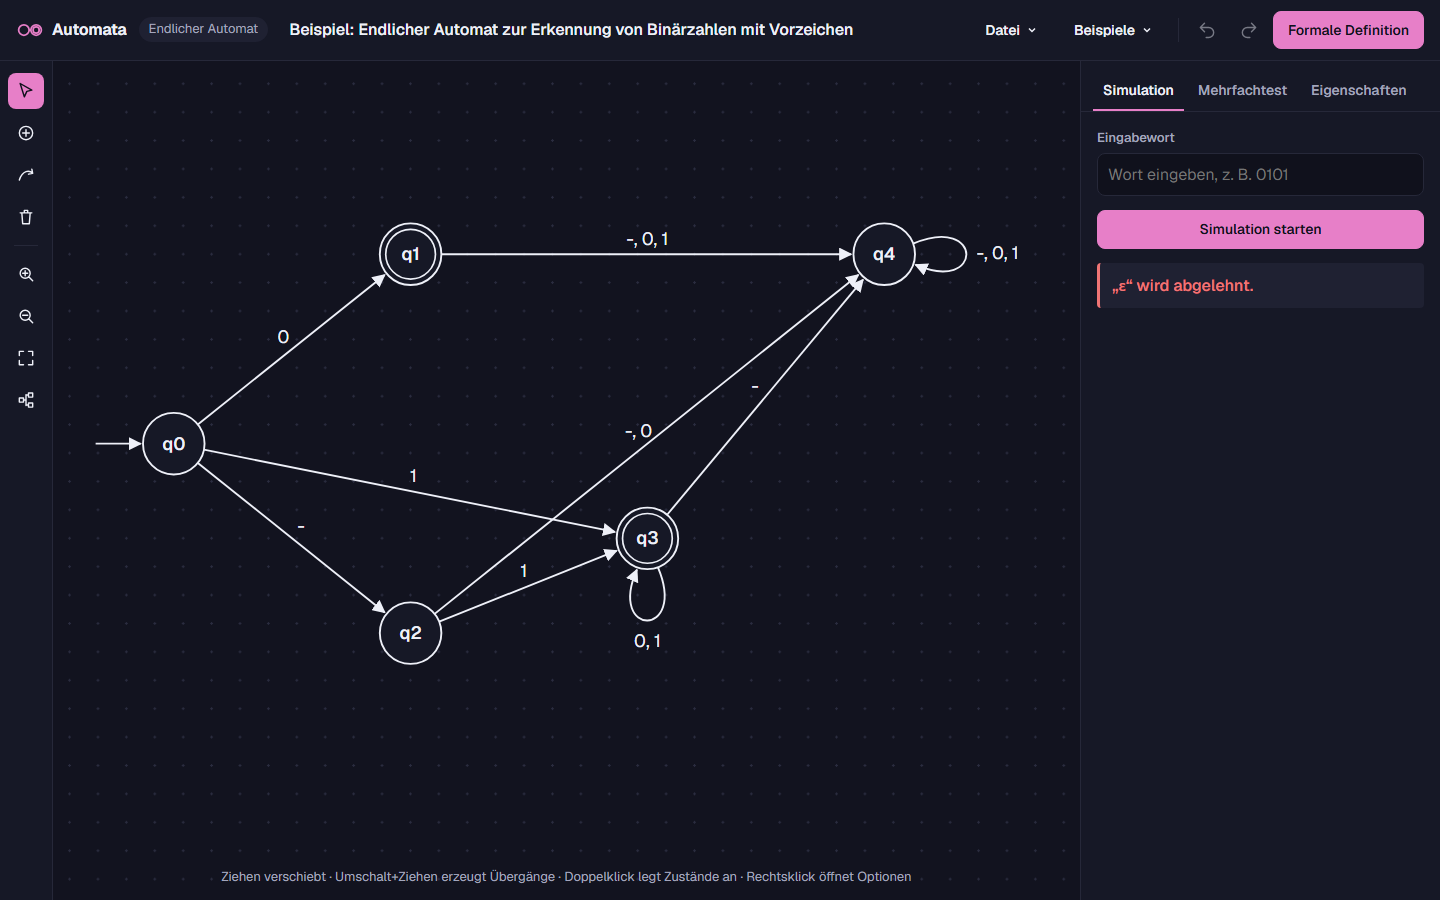
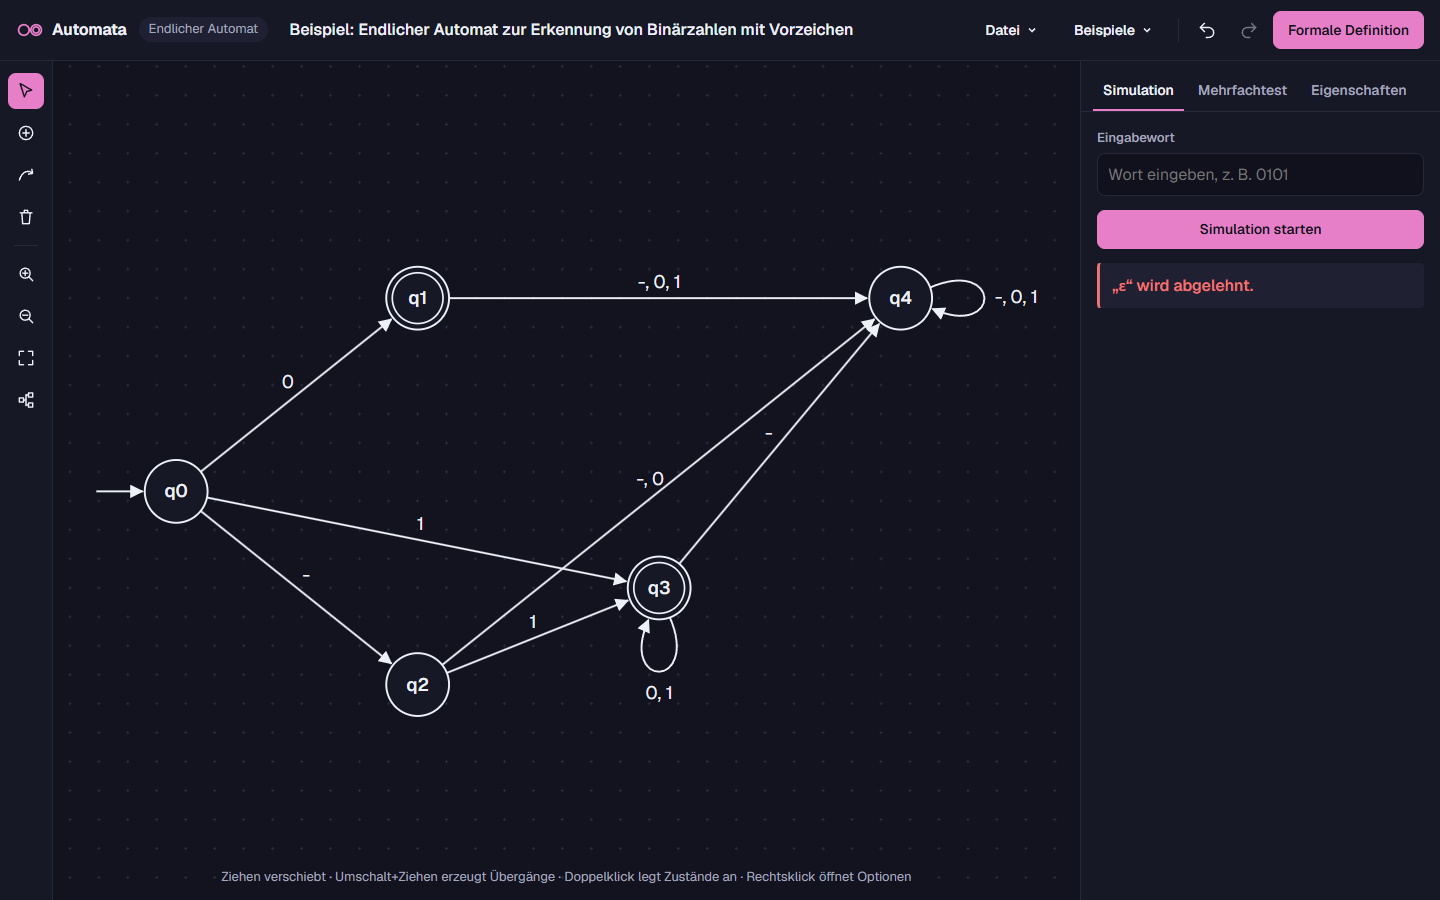
Update README.md

diff --git a/README.md b/README.md
@@ -3,31 +3,17 @@
 A modern, browser-based workbench for formal languages and automata theory, inspired by [JFLAP](https://www.jflap.org).
 Built with [Astro](https://astro.build), [Svelte](https://svelte.dev) and TypeScript. The user interface is in German.
 
-![Start page](.github/images/home.png)
+![Finite automaton editor](.github/images/finite-automaton.png)
 
 ## Features
 
-**Finite automata** (NFA/DFA) with ε-transitions:
-
-- Symbols can be single characters or whole words such as `hallo`. Input words are split at spaces (`hallo welt`), or,
-  without spaces, by the longest matching alphabet symbol (`hallowelt`)
-- Graph editor with automatic layout, undo/redo and autosave
-- Step-by-step simulation and batch testing of many words
-- Analysis (determinism, completeness, unreachable states), adding a missing trap state, NFA → DFA, DFA minimization,
-  FA → regular expression and FA → right-linear grammar
-- Formal definition `A = (Q, Σ, δ, q0, F)`, exportable as text, Markdown, LaTeX, SVG, PNG and PDF
-- JSON documents and JFLAP `.jff` import/export
-
-![Finite automaton editor](.github/images/finite-automaton.png)
-
-**Regular expressions**: batch testing and conversion to an ε-NFA (Thompson construction).
-
-![Regular expressions](.github/images/regular-expression.png)
-
-**Grammars**: Chomsky classification, Chomsky normal form, CYK, FIRST/FOLLOW sets and LL(1) parsing with derivation
-tree, and regular (right- or left-linear) grammar → NFA. Type `->` for `→`; an empty alternative means ε.
-
-![Grammars and parsing](.github/images/grammar.png)
+- **Finite automata** (NFA/DFA, ε-transitions, multi-character symbols): graph editor with automatic layout, step-by-step
+  simulation and batch tests, analysis, trap state completion, NFA → DFA, minimization, conversion to regular expression
+  and right-linear grammar, formal definition export (text, Markdown, LaTeX, SVG, PNG, PDF), JSON and JFLAP `.jff`
+  import/export.
+- **Regular expressions**: batch tests and conversion to an ε-NFA (Thompson construction).
+- **Grammars**: Chomsky classification, Chomsky normal form, CYK, FIRST/FOLLOW sets, LL(1) parsing with derivation tree
+  and regular grammar → NFA.
 
 Planned: SLR(1) and brute-force parsing, pushdown automata, Turing machines and L-systems.
 
@@ -57,8 +43,3 @@ npm run build    # type-check and build into dist/
 
 Large parts of this project were written with the help of AI ([Claude Code](https://claude.com/claude-code)).
 All changes are reviewed and tested before they are published.
-
-## Contact
-
-- Issues: https://github.com/florianreuth/Automata/issues
-- Discord: https://florianreuth.de/discord
